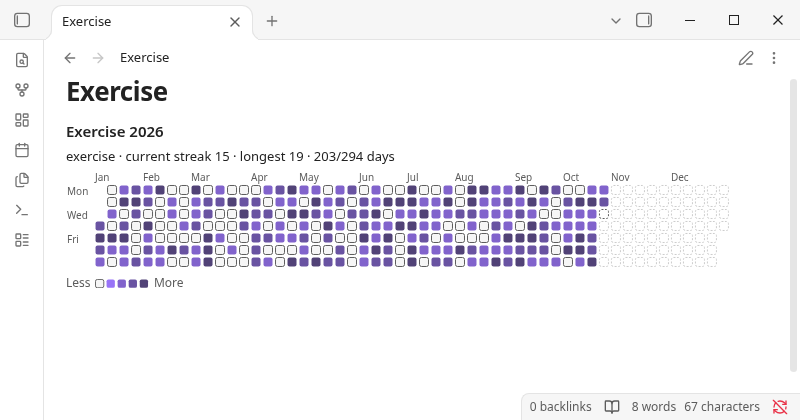
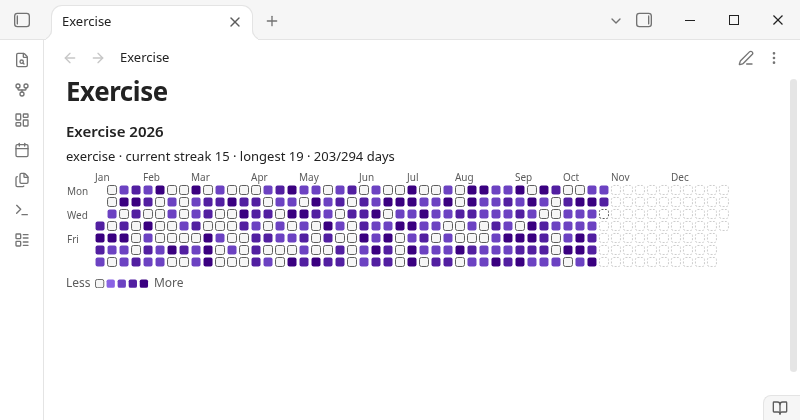
v0.1.0 UIUX r3 + marketing r3: OKLCH accent ladder (adjacent >=1.35:1 tested for default/Minimal light+dark), pinned weekday axis, label-safe fades, ResizeObserver re-align, empty-state folder in code style; README Pro markers + dev note; clean-vault shots 10/26 and GIF

Changed region(s): [[0.0938, 0.4333, 0.7812, 0.681], [0.6562, 0.9286, 1.0, 0.9905], [0.0625, 0.1238, 0.0938, 0.1548]]

diff --git a/tests/contrast.test.ts b/tests/contrast.test.ts
@@ -3,8 +3,6 @@ import { test } from 'node:test';
 import assert from 'node:assert/strict';
 import { readFileSync } from 'node:fs';
 
-// Obsidian 1.14 default --interactive-accent (light / dark), measured with getComputedStyle.
-const ACCENT_LIGHT = '#9873f7', ACCENT_DARK = '#8a5cf5';
 const BG = { light: '#ffffff', dark: '#1e1e1e' }; // Obsidian default --background-primary
 
 function luminance(hex: string): number {
@@ -50,34 +48,57 @@ test('empty cells have a visible border', () => {
 	assert.match(css, /\.sw-cell\.sw-l0 \{[^}]*stroke: var\(--text-muted\)(?![^}]*stroke-opacity)/);
 });
 
-// --- Accent palette (default): color-mix of the theme accent with --text-normal, checked with Obsidian's
-// default theme values (measured in Obsidian 1.14 under Xvfb; see obsidian-internal/uiux-r2-fixes.md).
-const DEFAULT_THEME = {
-	light: { bg: '#ffffff', accent: ACCENT_LIGHT, text: '#222222', onAccent: '#ffffff' },
-	dark: { bg: '#1c1c1c', accent: ACCENT_DARK, text: '#dadada', onAccent: '#ffffff' },
+// --- Accent palette (default): fixed OKLCH lightness ladder in the theme accent's hue/chroma.
+// Accent and background values measured in Obsidian 1.14.4 (getComputedStyle) for the default theme and Minimal;
+// see obsidian-internal/contrast-r3.md for the in-app rendered table.
+const THEMES = {
+	'default light': { dark: false, bg: '#ffffff', accent: '#9873f7' },
+	'default dark': { dark: true, bg: '#1c1c1c', accent: '#8a5cf5' },
+	'Minimal light': { dark: false, bg: '#ffffff', accent: '#7c95a2' },
+	'Minimal dark': { dark: true, bg: '#262626', accent: '#7992a0' },
+	'grey accent (chroma 0) light': { dark: false, bg: '#ffffff', accent: '#7a7a7a' },
+	'grey accent (chroma 0) dark': { dark: true, bg: '#1e1e1e', accent: '#7a7a7a' },
 };
-const hex = (n: number[]) => '#' + n.map((c) => Math.round(c).toString(16).padStart(2, '0')).join('');
-const rgb = (h: string) => [0, 2, 4].map((i) => parseInt(h.slice(1 + i, 3 + i), 16));
-/** CSS color-mix(in srgb, a p%, b). */
-const mix = (a: string, p: number, b: string) => { const x = rgb(a), y = rgb(b); return hex(x.map((c, i) => c * p + (y[i] ?? 0) * (1 - p))); };
-const accentRule = css.match(/\.sw-palette-accent \{([^}]*)\}/)?.[1] ?? '';
-const pcts = [...accentRule.matchAll(/--sw-(\d): color-mix\(in srgb, var\(--interactive-accent\) (\d+)%, var\(--text-normal\)\)/g)].map((m) => Number(m[2]) / 100);
+const toLin = (c: number) => (c <= 0.04045 ? c / 12.92 : ((c + 0.055) / 1.055) ** 2.4);
+const fromLin = (c: number) => { const x = Math.min(1, Math.max(0, c)); return x <= 0.0031308 ? 12.92 * x : 1.055 * x ** (1 / 2.4) - 0.055; };
+function hexToOklch(hex: string): [number, number, number] {
+	const [r, g, b] = [1, 3, 5].map((i) => toLin(parseInt(hex.slice(i, i + 2), 16) / 255)) as [number, number, number];
+	const l = Math.cbrt(0.4122214708 * r + 0.5363325363 * g + 0.0514459929 * b);
+	const m = Math.cbrt(0.2119034982 * r + 0.6806995451 * g + 0.1073969566 * b);
+	const s = Math.cbrt(0.0883024619 * r + 0.2817188376 * g + 0.6299787005 * b);
+	const A = 1.9779984951 * l - 2.4285922050 * m + 0.4505937099 * s;
+	const B = 0.0259040371 * l + 0.7827717662 * m - 0.8086757660 * s;
+	return [0.2104542553 * l + 0.7936177850 * m - 0.0040720468 * s, Math.hypot(A, B), Math.atan2(B, A)];
+}
+function oklchToHex(L: number, C: number, h: number): string {
+	const A = C * Math.cos(h), B = C * Math.sin(h);
+	const l = (L + 0.3963377774 * A + 0.2158037573 * B) ** 3;
+	const m = (L - 0.1055613458 * A - 0.0638541728 * B) ** 3;
+	const s = (L - 0.0894841775 * A - 1.2914855480 * B) ** 3;
+	const rgb = [4.0767416621 * l - 3.3077115913 * m + 0.2309699292 * s, -1.2684380046 * l + 2.6097574011 * m - 0.3413193965 * s, -0.0041960863 * l - 0.7034186147 * m + 1.7076147010 * s];
+	return '#' + rgb.map((c) => Math.round(fromLin(c) * 255).toString(16).padStart(2, '0')).join('');
+}
+const ladder = (sel: RegExp) => {
+	const body = css.match(sel)?.[1] ?? '';
+	return [...body.matchAll(/--sw-(\d): oklch\(from var\(--interactive-accent\) ([\d.]+) c h\)/g)].map((m) => Number(m[2]));
+};
+const LADDER = { light: ladder(/\n\.sw-palette-accent \{([^}]*)\}/), dark: ladder(/\.theme-dark \.sw-palette-accent \{([^}]*)\}/) };
 
-test('accent palette defined with color-mix for levels 2-4', () => {
-	assert.match(accentRule, /--sw-1: var\(--interactive-accent\)/);
-	assert.equal(pcts.length, 3);
+test('accent palette: 4-step OKLCH lightness ladders for light and dark', () => {
+	assert.equal(LADDER.light.length, 4);
+	assert.equal(LADDER.dark.length, 4);
 });
-for (const theme of ['light', 'dark'] as const) {
-	test(`${theme} accent (default theme): filled levels >= 3:1, increasing, distinct`, () => {
-		const t = DEFAULT_THEME[theme];
-		const fills = [t.accent, ...pcts.map((p) => mix(t.accent, p, t.text))];
+for (const [name, t] of Object.entries(THEMES)) {
+	test(`accent, ${name}: each level >= 3:1 vs background, adjacent levels >= 1.35:1`, () => {
+		const [, c, h] = hexToOklch(t.accent);
+		const fills = (t.dark ? LADDER.dark : LADDER.light).map((L) => oklchToHex(L, c, h));
 		let prev = 0;
 		fills.forEach((f, i) => {
-			const c = contrast(f, t.bg);
-			assert.ok(c >= 3, `level ${i + 1} ${f} only ${c.toFixed(2)}:1`);
-			assert.ok(c > prev, `level ${i + 1} not stronger`);
-			if (i > 0) assert.ok(contrast(f, fills[i - 1] as string) >= 1.25, `levels ${i}/${i + 1} too similar`);
-			prev = c;
+			const vsBg = contrast(f, t.bg);
+			assert.ok(vsBg >= 3, `level ${i + 1} ${f} only ${vsBg.toFixed(2)}:1`);
+			assert.ok(vsBg > prev, `level ${i + 1} not stronger`);
+			if (i > 0) assert.ok(contrast(f, fills[i - 1] as string) >= 1.35, `levels ${i}/${i + 1} only ${contrast(f, fills[i - 1] as string).toFixed(2)}:1`);
+			prev = vsBg;
 		});
 	});
 }

diff --git a/styles.css b/styles.css
@@ -2,11 +2,14 @@
    Sequential ramps: lightness changes with the level, so levels do not rely on hue alone. */
 
 .sw-block { margin: var(--size-4-2) 0; container-type: inline-size; }
-.sw-scroll { overflow-x: auto; font-size: var(--font-ui-small); }
-/* Edge fades show that the grid can scroll (set by heatmapBlock.scrollToToday). */
-.sw-scroll.sw-fade-right { -webkit-mask-image: linear-gradient(to right, #000 calc(100% - 24px), transparent); mask-image: linear-gradient(to right, #000 calc(100% - 24px), transparent); }
-.sw-scroll.sw-fade-left { -webkit-mask-image: linear-gradient(to left, #000 calc(100% - 24px), transparent); mask-image: linear-gradient(to left, #000 calc(100% - 24px), transparent); }
-.sw-scroll.sw-fade-left.sw-fade-right { -webkit-mask-image: linear-gradient(to right, transparent, #000 24px, #000 calc(100% - 24px), transparent); mask-image: linear-gradient(to right, transparent, #000 24px, #000 calc(100% - 24px), transparent); }
+.sw-grid-row { display: flex; align-items: flex-start; font-size: var(--font-ui-small); }
+.sw-weekday-axis { flex: none; }
+.sw-scroll { overflow-x: auto; min-width: 0; flex: 1 1 auto; font-size: var(--font-ui-small); }
+/* Edge fades show that the grid can scroll (set by heatmapBlock.scrollToToday). Only the cell rows fade;
+   the month-label strip (top 14 SVG units = 1.08em) stays unmasked so labels are clipped, not half-faded. */
+.sw-scroll.sw-fade-right { -webkit-mask: linear-gradient(#000, #000) top / 100% 1.08em no-repeat, linear-gradient(to right, #000 calc(100% - 24px), transparent) 0 1.08em / 100% 100% no-repeat; mask: linear-gradient(#000, #000) top / 100% 1.08em no-repeat, linear-gradient(to right, #000 calc(100% - 24px), transparent) 0 1.08em / 100% 100% no-repeat; }
+.sw-scroll.sw-fade-left { -webkit-mask: linear-gradient(#000, #000) top / 100% 1.08em no-repeat, linear-gradient(to left, #000 calc(100% - 24px), transparent) 0 1.08em / 100% 100% no-repeat; mask: linear-gradient(#000, #000) top / 100% 1.08em no-repeat, linear-gradient(to left, #000 calc(100% - 24px), transparent) 0 1.08em / 100% 100% no-repeat; }
+.sw-scroll.sw-fade-left.sw-fade-right { -webkit-mask: linear-gradient(#000, #000) top / 100% 1.08em no-repeat, linear-gradient(to right, transparent, #000 24px, #000 calc(100% - 24px), transparent) 0 1.08em / 100% 100% no-repeat; mask: linear-gradient(#000, #000) top / 100% 1.08em no-repeat, linear-gradient(to right, transparent, #000 24px, #000 calc(100% - 24px), transparent) 0 1.08em / 100% 100% no-repeat; }
 .sw-svg { display: block; font-family: var(--font-interface); }
 /* On-screen SVGs are sized in em of --font-ui-small, so cells and labels follow Obsidian's font size. */
 .sw-svg.sw-scaled { width: var(--sw-w); height: var(--sw-h); }
@@ -28,15 +31,27 @@
 
 /* S-12: every filled level has >= 3:1 contrast against the default light (#ffffff) and dark (#1e1e1e)
    backgrounds; --sw-on-N is the day-number colour for that level (>= 4.5:1). Checked by tests/contrast.test.ts. */
-/* Accent (default): follows the theme's --interactive-accent. Level 1 is the accent itself; higher levels mix in
-   --text-normal, so they get darker in light themes and brighter in dark themes. Checked by tests/contrast.test.ts
-   with Obsidian's default accent. */
+/* Accent (default): the theme's accent hue and chroma at a fixed OKLCH lightness ladder, so every level keeps its
+   colour and the steps are even in any theme (also low-chroma accents like Minimal's grey: they become a grey ladder).
+   Light themes get darker with the value, dark themes brighter. The color-mix lines are a fallback for older
+   Chromium without relative colour syntax. Checked by tests/contrast.test.ts (>= 3:1 vs background, adjacent >= 1.35:1). */
 .sw-palette-accent {
 	--sw-1: var(--interactive-accent);
 	--sw-2: color-mix(in srgb, var(--interactive-accent) 80%, var(--text-normal));
 	--sw-3: color-mix(in srgb, var(--interactive-accent) 60%, var(--text-normal));
 	--sw-4: color-mix(in srgb, var(--interactive-accent) 40%, var(--text-normal));
-	--sw-on-1: var(--text-on-accent); --sw-on-2: var(--background-primary); --sw-on-3: var(--background-primary); --sw-on-4: var(--background-primary);
+	--sw-1: oklch(from var(--interactive-accent) 0.60 c h);
+	--sw-2: oklch(from var(--interactive-accent) 0.50 c h);
+	--sw-3: oklch(from var(--interactive-accent) 0.40 c h);
+	--sw-4: oklch(from var(--interactive-accent) 0.30 c h);
+	--sw-on-1: #ffffff; --sw-on-2: #ffffff; --sw-on-3: #ffffff; --sw-on-4: #ffffff;
+}
+.theme-dark .sw-palette-accent {
+	--sw-1: oklch(from var(--interactive-accent) 0.58 c h);
+	--sw-2: oklch(from var(--interactive-accent) 0.69 c h);
+	--sw-3: oklch(from var(--interactive-accent) 0.80 c h);
+	--sw-4: oklch(from var(--interactive-accent) 0.91 c h);
+	--sw-on-1: #ffffff; --sw-on-2: #000000; --sw-on-3: #000000; --sw-on-4: #000000;
 }
 .sw-palette-green { --sw-1: #4c9c61; --sw-on-1: #000000; --sw-2: #2f7f47; --sw-on-2: #ffffff; --sw-3: #1c6332; --sw-on-3: #ffffff; --sw-4: #0b4520; --sw-on-4: #ffffff; }
 .sw-palette-blue { --sw-1: #5b8fc7; --sw-on-1: #000000; --sw-2: #3b70b0; --sw-on-2: #ffffff; --sw-3: #235390; --sw-on-3: #ffffff; --sw-4: #0d3366; --sw-on-4: #ffffff; }

diff --git a/src/obsidian/heatmapBlock.ts b/src/obsidian/heatmapBlock.ts
@@ -4,7 +4,7 @@ import { applyFreeLimits, parseBlockConfig } from '../core/blockConfig';
 import { buildHeatmapModel } from '../core/heatmapModel';
 import { duplicatesInRange } from '../core/dailyEntries';
 import { habitValues, resolveDailySource } from './dataSource';
-import { fitToContent, renderExportSvg, renderGridSvg, renderLegendSwatches, renderStats } from './renderSvg';
+import { fitToContent, renderExportSvg, renderGridSvg, renderLegendSwatches, renderStats, renderWeekdayAxis } from './renderSvg';
 import type { HeatmapModel } from '../core/heatmapModel';
 import type { Palette } from '../core/blockConfig';
 import { savePngToVault, svgToPng } from './exportPng';
@@ -78,8 +78,9 @@ export class HeatmapBlock extends MarkdownRenderChild {
 			const what = locked.join(' and ');
 			const verb = locked.length > 1 ? 'are' : 'is';
 			callout.createSpan({
-				text: `${what} ${verb} ${proSoon ? 'a Pro feature (coming soon)' : 'a Streakwise Pro feature'}. `
-					+ 'The free version shows one habit per block with "view: year".',
+				text: proSoon
+					? `${what} ${verb} planned for Pro. In the free version, use one habit with "view: year".`
+					: `${what} ${verb} a Streakwise Pro feature. In the free version, use one habit with "view: year".`,
 			});
 			return;
 		}
@@ -105,7 +106,11 @@ export class HeatmapBlock extends MarkdownRenderChild {
 		if (config.title) root.createDiv({ cls: 'sw-title', text: config.title });
 		for (const habit of model.habits) {
 			renderStats(root, habit);
-			const scroll = root.createDiv({ cls: 'sw-scroll' });
+			// Weekday labels stay put; only the cells (and month labels) scroll.
+			const row = root.createDiv({ cls: 'sw-grid-row' });
+			const axis = renderWeekdayAxis(model);
+			if (axis) row.appendChild(axis);
+			const scroll = row.createDiv({ cls: 'sw-scroll' });
 			scroll.appendChild(renderGridSvg(model, habit, palette));
 			this.scrollToToday(scroll, today);
 		}
@@ -136,30 +141,53 @@ export class HeatmapBlock extends MarkdownRenderChild {
 		}
 		const card = root.createDiv({ cls: 'sw-empty-card' });
 		card.createDiv({ cls: 'sw-empty-title', text: 'No daily notes found yet' });
-		card.createDiv({
-			cls: 'sw-empty-desc',
-			text: `Streakwise looks in "${folder || '/'}" and its subfolders for notes named like ${format}. Create a daily note, or change the location in settings.`,
-		});
+		const desc = card.createDiv({ cls: 'sw-empty-desc' });
+		desc.appendText('Streakwise looks in ');
+		if (folder) {
+			desc.appendText('the folder ');
+			desc.createEl('code', { text: folder });
+		} else desc.appendText('your vault root');
+		desc.appendText(' and its subfolders for notes named like ');
+		desc.createEl('code', { text: format });
+		desc.appendText('. Create a daily note, or change the location in settings.');
 		const btn = card.createEl('button', { text: 'Open Streakwise settings' });
 		btn.onclick = () => { this.plugin.openSettings(); };
 	}
 
-	/** Narrow panes: right-align today's column and show fades on edges that can scroll. */
+	/**
+	 * Narrow panes: right-align today's column and show fades on edges that can scroll.
+	 * Re-aligns when the pane is resized, unless the user has scrolled the grid themselves.
+	 */
 	private scrollToToday(scroll: HTMLElement, today: string) {
+		let userScrolled = false;
+		let ours = false;
 		const update = () => {
 			const max = scroll.scrollWidth - scroll.clientWidth;
 			scroll.toggleClass('sw-fade-left', scroll.scrollLeft > 1);
 			scroll.toggleClass('sw-fade-right', scroll.scrollLeft < max - 1);
 		};
-		scroll.addEventListener('scroll', update, { passive: true });
-		window.requestAnimationFrame(() => {
+		const align = () => {
 			const cell = scroll.querySelector(`rect[data-day="${today}"]`);
 			if (cell && scroll.scrollWidth > scroll.clientWidth) {
 				const c = cell.getBoundingClientRect(), b = scroll.getBoundingClientRect();
-				scroll.scrollLeft += c.right - b.right + 16;
+				ours = true;
+				scroll.scrollLeft += c.right - b.right + 40; // keep today clear of the 24px edge fade
 			}
 			update();
+		};
+		scroll.addEventListener('scroll', () => {
+			if (ours) ours = false; else userScrolled = true;
+			update();
+		}, { passive: true });
+		let lastWidth = 0;
+		const ro = new ResizeObserver(() => {
+			if (scroll.clientWidth === lastWidth) return;
+			lastWidth = scroll.clientWidth;
+			if (userScrolled) update(); else align();
 		});
+		ro.observe(scroll);
+		this.register(() => ro.disconnect());
+		window.requestAnimationFrame(align);
 	}
 
 	async exportPng(view: string, today: string): Promise<string | null> {

diff --git a/src/obsidian/renderSvg.ts b/src/obsidian/renderSvg.ts
@@ -46,11 +46,12 @@ export function renderStats(parent: HTMLElement, h: HabitHeatmap) {
 const isCalendar = (m: HeatmapModel) => m.view === 'month' || m.view === 'week';
 
 /** Draws one habit's grid into `parent` at (x, y). Returns its size. */
-function drawGrid(parent: Element, model: HeatmapModel, habit: HabitHeatmap, x: number, y: number): { width: number; height: number } {
+/** `weekdayLabels: false` leaves out the Mon/Wed/Fri column (on screen it is a separate, non-scrolling SVG). */
+function drawGrid(parent: Element, model: HeatmapModel, habit: HabitHeatmap, x: number, y: number, weekdayLabels = true): { width: number; height: number } {
 	const calendar = isCalendar(model);
 	const cell = calendar ? 30 : 10;
 	const step = cell + (calendar ? 4 : 2);
-	const left = calendar ? 0 : 28;
+	const left = calendar || !weekdayLabels ? 0 : 28;
 	const order = Array.from({ length: 7 }, (_, i) => (model.weekStart + i) % 7);
 	const g = el('g', { transform: `translate(${x + left}, ${y})` }, parent);
 	const weeks = habit.weeks;
@@ -71,7 +72,7 @@ function drawGrid(parent: Element, model: HeatmapModel, habit: HabitHeatmap, x: 
 		const ref = first ?? (col === 0 ? week.find(Boolean) : undefined);
 		if (ref) text(g, col * step, 10, MONTHS[parseKey(ref.day).month - 1] ?? '', 'sw-axis');
 	});
-	order.forEach((weekday, row) => {
+	if (weekdayLabels) order.forEach((weekday, row) => {
 		if (weekday === 1 || weekday === 3 || weekday === 5) {
 			text(parent, x, y + 14 + row * step + cell, WEEKDAYS[weekday] ?? '', 'sw-axis');
 		}
@@ -115,8 +116,19 @@ function scaled(svg: SVGSVGElement): SVGSVGElement {
 /** On-screen grid for one habit. Title, stats and legend are HTML around it so they wrap (S-11). */
 export function renderGridSvg(model: HeatmapModel, habit: HabitHeatmap, palette: Palette): SVGSVGElement {
 	const svg = el('svg', { class: `sw-svg sw-palette-${palette}`, role: 'img', 'aria-label': statsLine(habit) });
-	const size = drawGrid(svg, model, habit, 1, 1);
+	const size = drawGrid(svg, model, habit, 1, 1, isCalendar(model));
 	return scaled(sized(svg, size.width + 2, size.height + 2));
+}
+
+/** Fixed Mon/Wed/Fri column left of the scrolling yearly grid (null for calendar layouts). */
+export function renderWeekdayAxis(model: HeatmapModel): SVGSVGElement | null {
+	if (isCalendar(model)) return null;
+	const svg = el('svg', { class: 'sw-svg sw-weekday-axis', 'aria-hidden': 'true' });
+	const order = Array.from({ length: 7 }, (_, i) => (model.weekStart + i) % 7);
+	order.forEach((weekday, row) => {
+		if (weekday === 1 || weekday === 3 || weekday === 5) text(svg, 1, 1 + 14 + row * 12 + 10, WEEKDAYS[weekday] ?? '', 'sw-axis');
+	});
+	return scaled(sized(svg, 28, 14 + 7 * 12 + 2));
 }
 
 /** The five legend swatches (no text; "Less"/"More" are HTML). */

diff --git a/README.md b/README.md
@@ -33,9 +33,9 @@ view: year
 
 | Option | Values | Default |
 |---|---|---|
-| `habits` | comma-separated frontmatter properties (case-insensitive) | default habit from settings |
-| `view` | `year`, `ytd`, `quarter`, `month`, `week` | `year` |
-| `date` / `year` | `YYYY-MM-DD` / `YYYY`, which period to show. Ignored by `view: ytd`, which always shows 1 January to today of the current year | today |
+| `habits` | one frontmatter property (case-insensitive); several, comma-separated: Pro, planned | default habit from settings |
+| `view` | `year` (`ytd`, `quarter`, `month`, `week`: Pro, planned) | `year` |
+| `date` / `year` | `YYYY-MM-DD` / `YYYY`, which year to show | today |
 | `colors` | `accent`, `green`, `blue`, `purple`, `orange` | from settings (`accent`) |
 | `max` | value shown in the darkest colour | largest value in range |
 | `title` | any text | none |
@@ -69,10 +69,13 @@ The command **Insert heatmap block** adds a starter block.
 
 ## Development
 
+The free build makes no network requests: the license code for the planned Pro version is removed from `main.js` at build time (`FREE_BUILD=true`), and `npm test` checks the bundle for it.
+
 ```bash
 npm install
 npm run build   # type-check + bundle to main.js
-npm test        # unit tests (date/value/streak/scale/config, settings validation, contrast, licensing with mocked HTTP) + a check of the shipped free bundle (FREE_BUILD=true)
+npm test        # unit tests (dates, values, streaks, settings validation, colour contrast) + a check that the
+                # shipped free bundle (FREE_BUILD=true) contains no license or network code
 npm run lint
 ```
 
